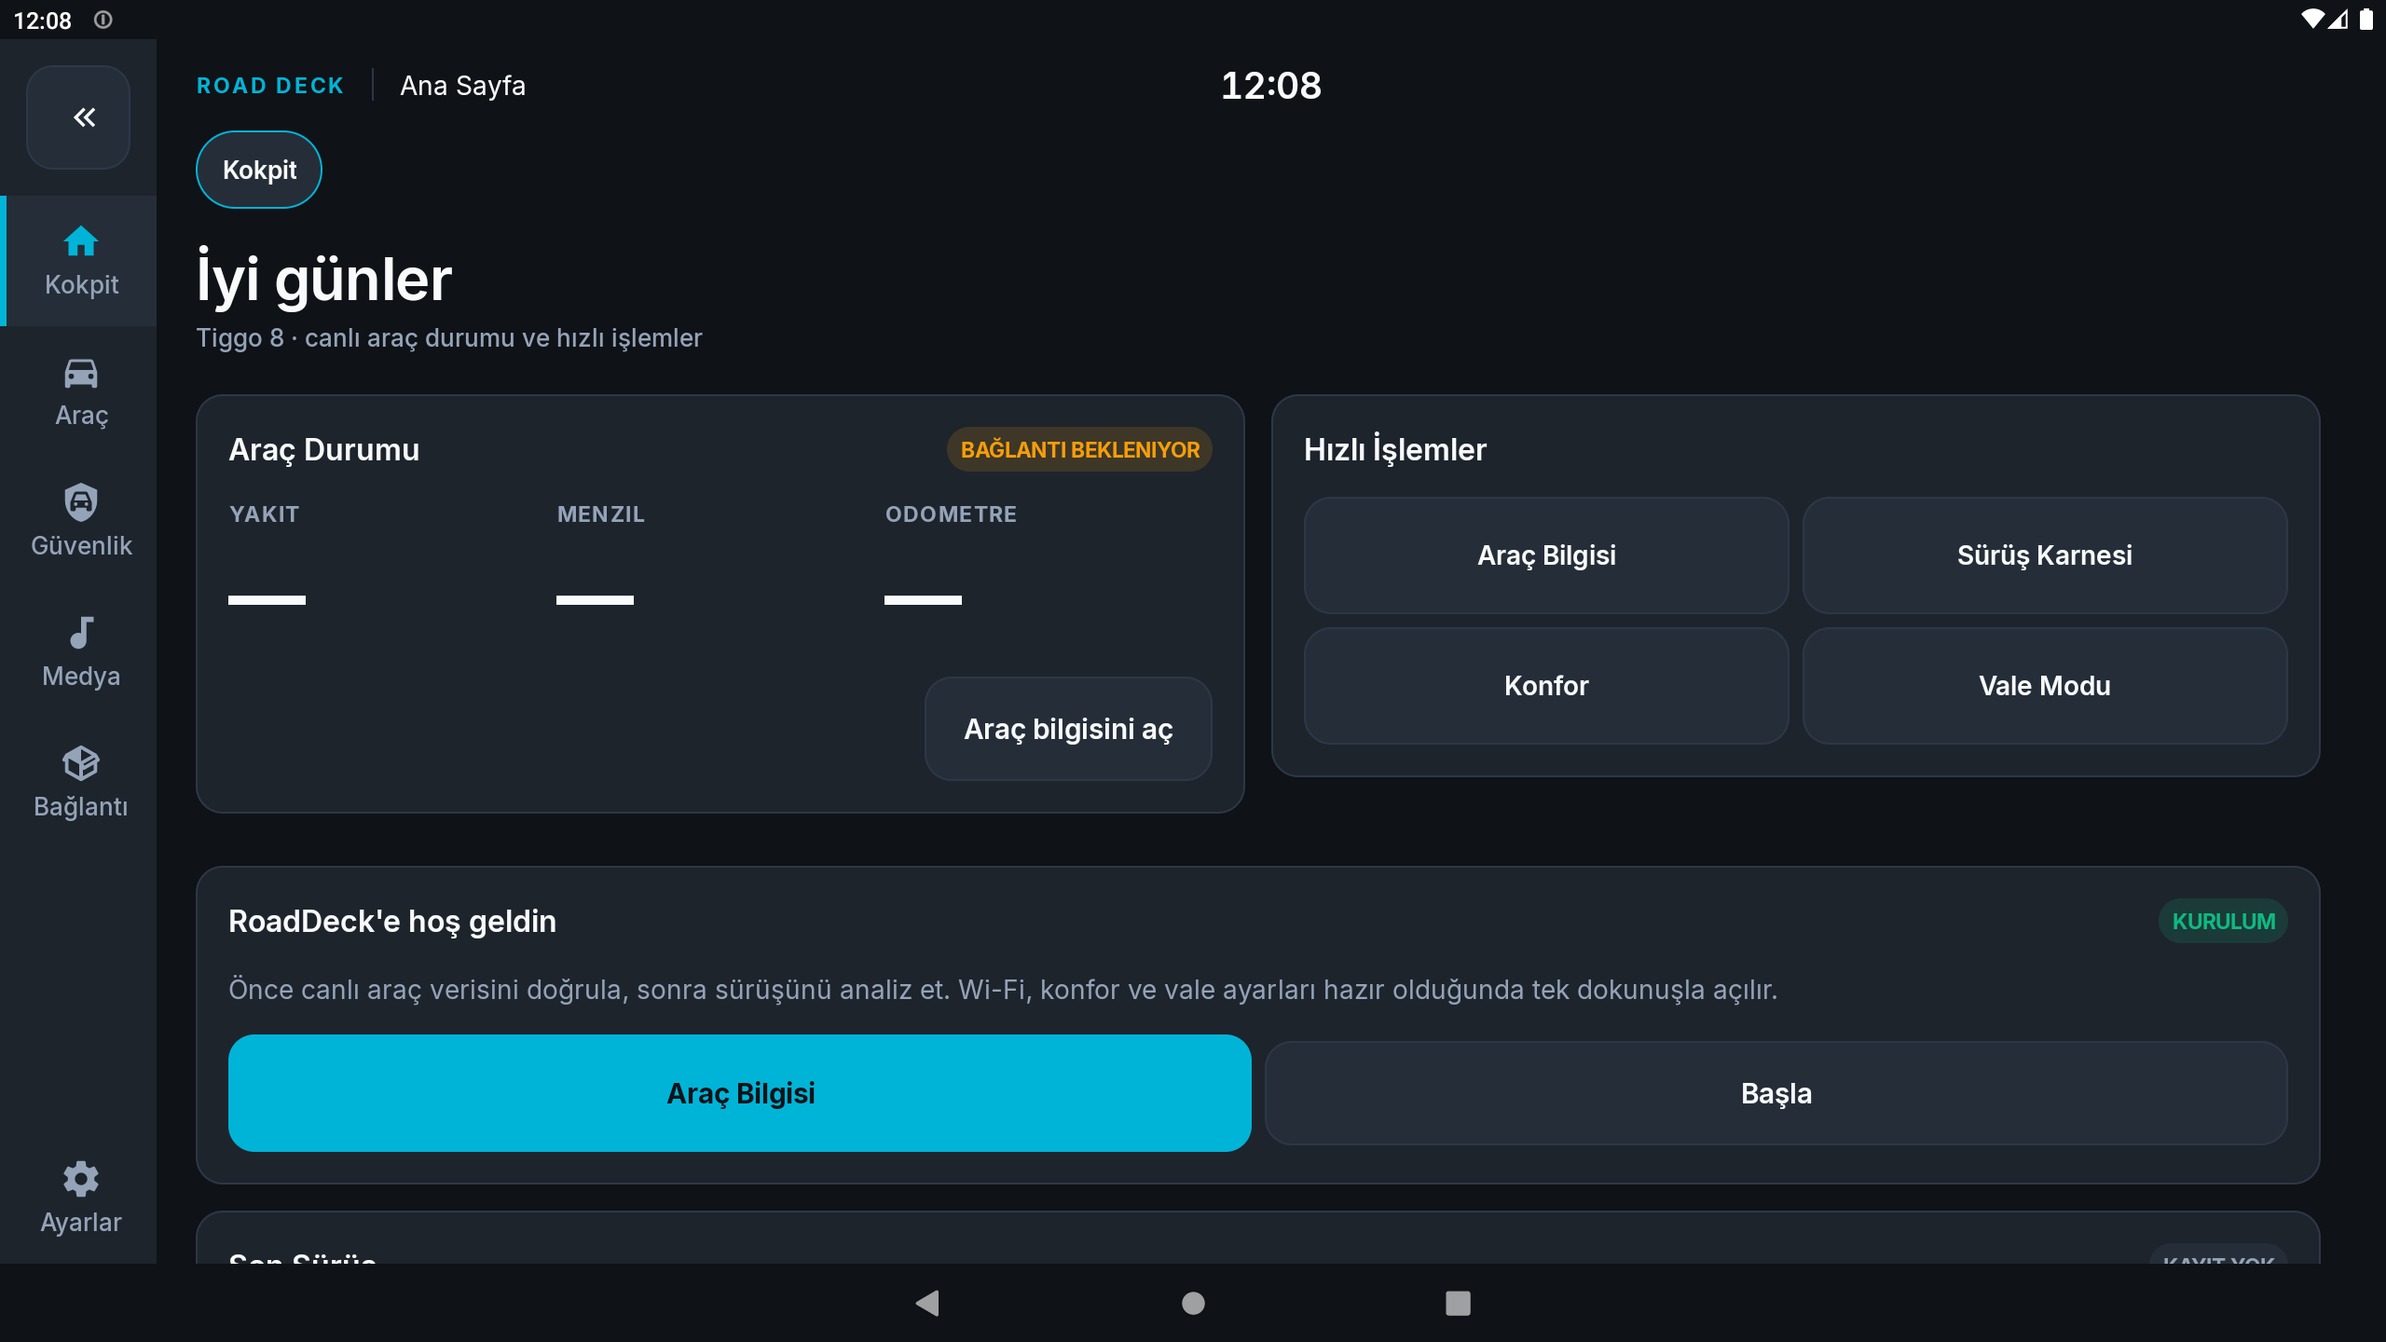
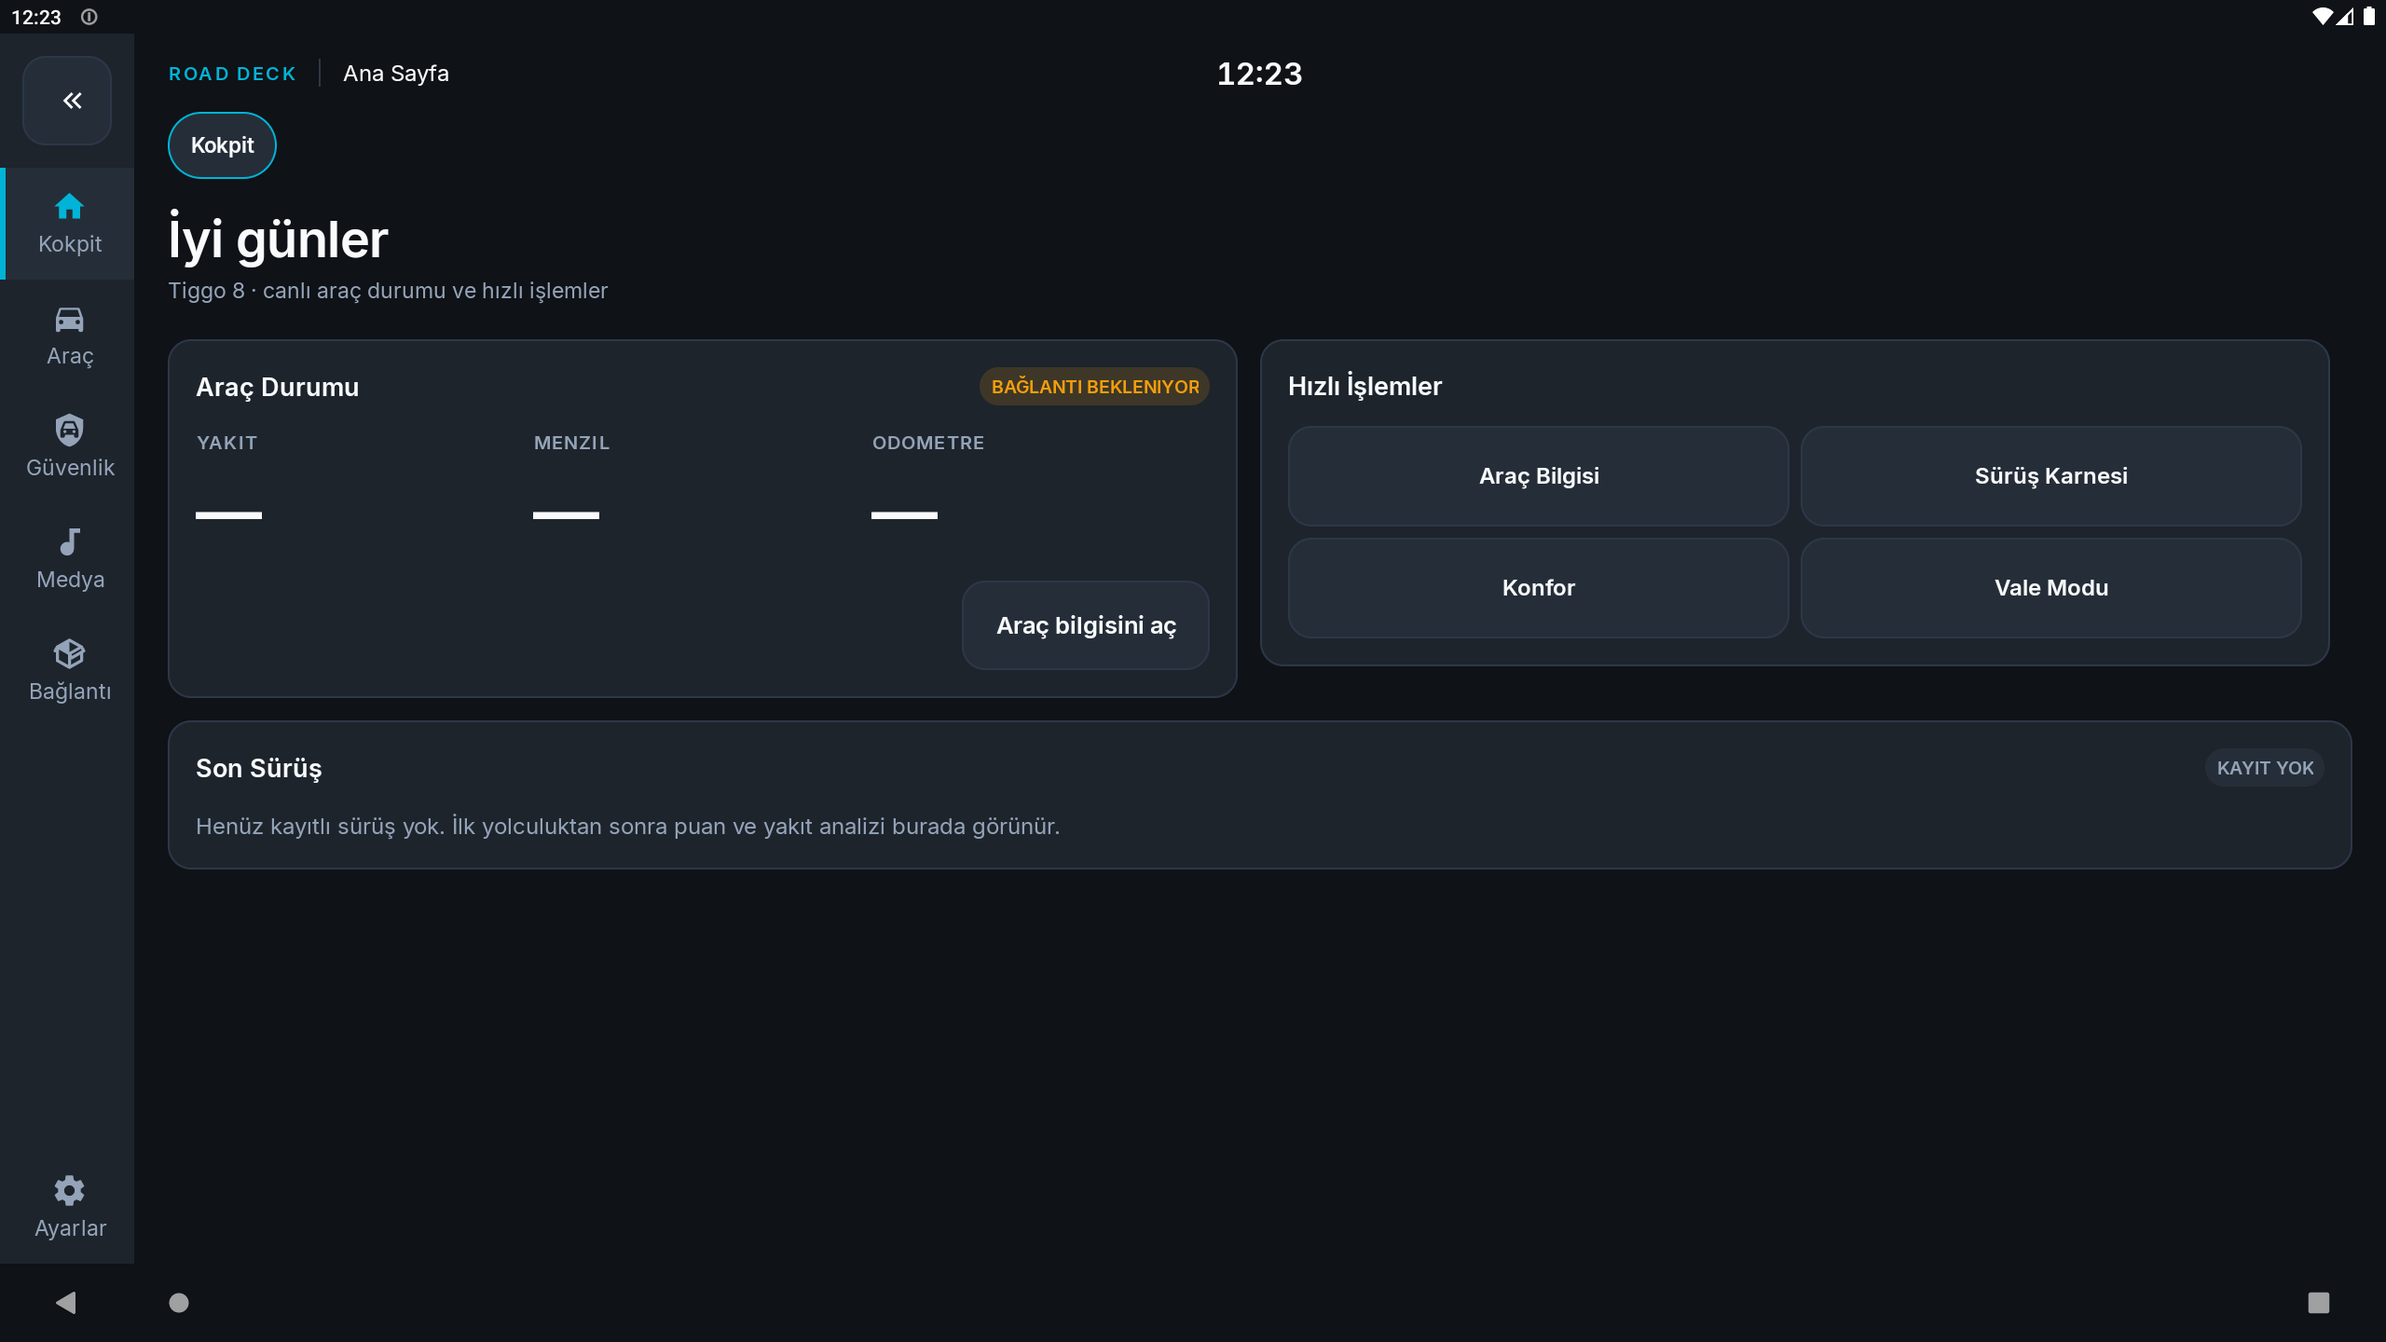
F4: DrivingHistory chip/kart/tipografi, 240dpi ekran goruntuleri, Home son surus karti
- DrivingHistory: CockpitChip filtre, LabelCaps bolum, Level1 kart, CockpitEmptyState
- SideRail domain seciminde status bar artik sekme basligini gosteriyor
- Home: Son Surus karti grid'e tam olarak olusturulup ekleniyor (dinamik re-add layout sorunu)
- Ekran goruntuleri 240dpi (hedef AVD) ile yenilendi

diff --git a/app/src/main/java/com/mapcontrol/ui/builder/HomeTabBuilder.java b/app/src/main/java/com/mapcontrol/ui/builder/HomeTabBuilder.java
@@ -63,7 +63,7 @@ public class HomeTabBuilder implements VehicleMetricsRepository.Listener {
     private MetricView odoValue;
     private StatusBadge statusBadge;
     private CockpitCard onboardingCard;
-    private LinearLayout lastDriveHost;
+    private View lastDriveCard;
     private volatile boolean tabVisible;
 
     public HomeTabBuilder(Context context, VehicleMetricsRepository repository, HomeCallback callback) {
@@ -81,7 +81,7 @@ public class HomeTabBuilder implements VehicleMetricsRepository.Listener {
 
     public void startListening() {
         tabVisible = true;
-        renderLastDrive();
+        // Last drive is built once with the tab; live trip updates are reflected on next open.
         repository.removeListener(this);
         repository.addListener(this);
         repository.refresh();
@@ -117,10 +117,9 @@ public class HomeTabBuilder implements VehicleMetricsRepository.Listener {
 
         grid.add(buildVehicleCard(), 4);
         grid.add(buildQuickActions(), 4);
-        grid.add(buildValetCard(), 8);
-        grid.add(buildOnboardingCard(), 8);
-        grid.add(buildLastDriveHost(), 8);
-        renderLastDrive();
+        grid.addFullWidth(buildLastDriveCard());
+        grid.addFullWidth(buildValetCard());
+        grid.addFullWidth(buildOnboardingCard());
     }
 
     private View buildHero() {
@@ -253,23 +252,9 @@ public class HomeTabBuilder implements VehicleMetricsRepository.Listener {
         return onboardingCard;
     }
 
-    private View buildLastDriveHost() {
-        lastDriveHost = new LinearLayout(context);
-        lastDriveHost.setOrientation(LinearLayout.VERTICAL);
-        return lastDriveHost;
-    }
-
-    private void renderLastDrive() {
-        if (lastDriveHost == null) {
-            return;
-        }
-        lastDriveHost.removeAllViews();
-        lastDriveHost.addView(buildLastDriveCard(), new LinearLayout.LayoutParams(
-                LinearLayout.LayoutParams.MATCH_PARENT, LinearLayout.LayoutParams.WRAP_CONTENT));
-    }
-
     private CockpitCard buildLastDriveCard() {
-        CockpitCard card = new CockpitCard(context, context.getString(R.string.ck_home_last_drive)).span(8);
+        CockpitCard card = new CockpitCard(context,
+                context.getString(R.string.ck_home_last_drive)).span(8);
         DrivingSessionRecorder recorder = DrivingSessionRecorder.get(context);
         DrivingTrip trip = recorder.isActive() ? recorder.getDisplayTrip() : recorder.getLastTrip();
         if (trip == null) {
@@ -279,51 +264,50 @@ public class HomeTabBuilder implements VehicleMetricsRepository.Listener {
             }
         }
         if (trip == null) {
-            card.status(StatusBadge.neutral(context, context.getString(R.string.ck_home_no_record)));
+            card.status(StatusBadge.neutral(context,
+                    context.getString(R.string.ck_home_no_record)));
             TextView empty = new TextView(context);
-            CockpitTokens.bodySm(empty);
+            CockpitTokens.bodyMd(empty);
+            empty.setTextColor(CockpitTokens.color(context, R.color.ck_text_medium));
             empty.setText(context.getString(R.string.ck_home_no_drive));
             card.addContent(empty);
             return card;
         }
 
-        card.status(StatusBadge.nominal(context, recorder.isActive() ? context.getString(R.string.ck_home_in_progress) : context.getString(R.string.ck_home_completed)));
+        card.status(StatusBadge.nominal(context, recorder.isActive()
+                ? context.getString(R.string.ck_home_in_progress)
+                : context.getString(R.string.ck_home_completed)));
+
         LinearLayout row = new LinearLayout(context);
         row.setOrientation(LinearLayout.HORIZONTAL);
         row.setGravity(Gravity.CENTER_VERTICAL);
-        MetricView score = new MetricView(context, context.getString(R.string.ck_home_score)).value(String.valueOf(trip.score));
-        score.setMinimumWidth(CockpitTokens.dp(context, 160));
-        row.addView(score);
 
-        LinearLayout info = new LinearLayout(context);
-        info.setOrientation(LinearLayout.VERTICAL);
-        LinearLayout.LayoutParams infoLp = new LinearLayout.LayoutParams(0,
-                LinearLayout.LayoutParams.WRAP_CONTENT, 1f);
-        infoLp.leftMargin = CockpitTokens.dim(context, R.dimen.ck_space_lg);
-        row.addView(info, infoLp);
+        TextView score = new TextView(context);
+        CockpitTokens.display(score);
+        score.setText(String.valueOf(trip.score));
+        score.setTextColor(CockpitTokens.color(context, R.color.ck_accent));
+        row.addView(score, new LinearLayout.LayoutParams(
+                CockpitTokens.dp(context, 150), LinearLayout.LayoutParams.WRAP_CONTENT));
 
-        TextView title = new TextView(context);
-        CockpitTokens.title(title);
-        title.setText(trip.title.isEmpty() ? context.getString(R.string.ck_home_drive) : trip.title);
-        info.addView(title);
-
+        TextView info = new TextView(context);
+        CockpitTokens.bodyMd(info);
         SimpleDateFormat fmt = new SimpleDateFormat("d MMM · HH:mm", new Locale("tr", "TR"));
-        TextView meta = new TextView(context);
-        CockpitTokens.bodySm(meta);
-        meta.setText(fmt.format(new Date(trip.startTimeMs))
-                + " · " + String.format(Locale.getDefault(), "%.1f km", trip.distanceKm));
-        info.addView(meta);
-
+        String meta = (trip.title.isEmpty() ? context.getString(R.string.ck_home_drive) : trip.title)
+                + "\n" + fmt.format(new Date(trip.startTimeMs))
+                + " · " + String.format(Locale.getDefault(), "%.1f km", trip.distanceKm);
         if (trip.consumptionL100 > 0) {
-            TextView cons = new TextView(context);
-            CockpitTokens.mono(cons);
-            cons.setText(String.format(Locale.getDefault(), "%.1f L/100 km", trip.consumptionL100));
-            info.addView(cons);
+            meta += "\n" + String.format(Locale.getDefault(), "%.1f L/100 km", trip.consumptionL100);
         }
+        info.setText(meta);
+        info.setTextColor(CockpitTokens.color(context, R.color.ck_text_medium));
+        row.addView(info, new LinearLayout.LayoutParams(0,
+                LinearLayout.LayoutParams.WRAP_CONTENT, 1f));
         card.addContent(row);
 
-        CockpitButton open = CockpitButton.secondary(context, context.getString(R.string.ck_home_view_all));
-        open.setOnClickListener(v -> callback.onNavigate(TAB_DRIVING_HISTORY, context.getString(R.string.ck_home_drive_report)));
+        CockpitButton open = CockpitButton.secondary(context,
+                context.getString(R.string.ck_home_view_all));
+        open.setOnClickListener(v -> callback.onNavigate(TAB_DRIVING_HISTORY,
+                context.getString(R.string.ck_home_drive_report)));
         card.addAction(open);
         return card;
     }

diff --git a/app/src/main/java/com/mapcontrol/ui/builder/DrivingHistoryTabBuilder.java b/app/src/main/java/com/mapcontrol/ui/builder/DrivingHistoryTabBuilder.java
@@ -21,6 +21,11 @@ import com.mapcontrol.driving.DrivingTripStore;
 import com.mapcontrol.driving.DrivingTrendBarsView;
 import com.mapcontrol.driving.DrivingTrends;
 import com.mapcontrol.ui.activity.DrivingAnalysisActivity;
+import com.mapcontrol.ui.cockpit.CockpitButton;
+import com.mapcontrol.ui.cockpit.CockpitChip;
+import com.mapcontrol.ui.cockpit.CockpitEmptyState;
+import com.mapcontrol.ui.cockpit.CockpitSurfaces;
+import com.mapcontrol.ui.cockpit.CockpitTokens;
 import com.mapcontrol.ui.theme.UiStyles;
 import com.mapcontrol.util.AppLocaleManager;
 
@@ -124,10 +129,8 @@ public class DrivingHistoryTabBuilder {
             String message = filterDays > 0
                     ? "Seçilen dönemde kayıtlı sürüş yok."
                     : context.getString(R.string.driving_history_empty);
-            TextView empty = text(message, 16,
-                    UiStyles.color(context, R.color.textSecondary), false);
-            empty.setGravity(Gravity.CENTER);
-            empty.setPadding(dp(24), dp(48), dp(24), dp(48));
+            CockpitEmptyState empty = new CockpitEmptyState(context,
+                    R.drawable.ic_mdi_road_variant, message);
             listContainer.addView(empty, new LinearLayout.LayoutParams(
                     LinearLayout.LayoutParams.MATCH_PARENT,
                     LinearLayout.LayoutParams.WRAP_CONTENT));
@@ -135,12 +138,7 @@ public class DrivingHistoryTabBuilder {
     }
 
     private void addFilterChip(String label, int days) {
-        TextView chip = text(label, 12,
-                UiStyles.color(context, R.color.textSecondary), true);
-        chip.setGravity(Gravity.CENTER);
-        chip.setPadding(dp(12), dp(7), dp(12), dp(7));
-        chip.setClickable(true);
-        chip.setFocusable(true);
+        CockpitChip chip = new CockpitChip(context, label);
         chip.setOnClickListener(v -> {
             filterDays = days;
             updateFilterChips();
@@ -148,7 +146,7 @@ public class DrivingHistoryTabBuilder {
         });
         LinearLayout.LayoutParams lp = new LinearLayout.LayoutParams(
                 LinearLayout.LayoutParams.WRAP_CONTENT,
-                LinearLayout.LayoutParams.WRAP_CONTENT);
+                CockpitTokens.dim(context, R.dimen.ck_chip_h));
         lp.setMarginEnd(dp(8));
         filterBar.addView(chip, lp);
         filterChips.add(chip);
@@ -160,15 +158,9 @@ public class DrivingHistoryTabBuilder {
         for (int i = 0; i < filterChips.size(); i++) {
             TextView chip = filterChips.get(i);
             boolean selected = filterDaysValues.get(i) == filterDays;
-            GradientDrawable bg = new GradientDrawable();
-            bg.setColor(UiStyles.color(context, selected
-                    ? R.color.oemAccent : R.color.surfaceCardElevated));
-            bg.setCornerRadius(dp(9));
-            bg.setStroke(Math.max(1, Math.round(dp(1))),
-                    UiStyles.color(context, R.color.outlineSubtle));
-            chip.setBackground(bg);
-            chip.setTextColor(UiStyles.color(context, selected
-                    ? R.color.textPrimary : R.color.textSecondary));
+            if (chip instanceof CockpitChip) {
+                ((CockpitChip) chip).setSelectedState(selected);
+            }
         }
     }
 
@@ -191,12 +183,7 @@ public class DrivingHistoryTabBuilder {
         LinearLayout card = new LinearLayout(context);
         card.setOrientation(LinearLayout.VERTICAL);
         card.setPadding(dp(16), dp(14), dp(16), dp(14));
-        GradientDrawable background = new GradientDrawable();
-        background.setColor(UiStyles.color(context, R.color.surfaceCard));
-        background.setCornerRadius(dp(16));
-        background.setStroke(Math.max(1, Math.round(dp(1))),
-                UiStyles.color(context, R.color.outlineSubtle));
-        card.setBackground(background);
+        CockpitSurfaces.level1(card);
         LinearLayout.LayoutParams cardLp = new LinearLayout.LayoutParams(
                 LinearLayout.LayoutParams.MATCH_PARENT,
                 LinearLayout.LayoutParams.WRAP_CONTENT);
@@ -421,9 +408,9 @@ public class DrivingHistoryTabBuilder {
     }
 
     private TextView sectionLabel(int labelResId) {
-        TextView label = text(labelResId, 11,
-                UiStyles.color(context, R.color.textHint), true);
-        label.setLetterSpacing(0.16f);
+        TextView label = text(labelResId, 13,
+                UiStyles.color(context, R.color.textSecondary), true);
+        CockpitTokens.labelCaps(label);
         label.setPadding(0, dp(14), 0, dp(6));
         return label;
     }
@@ -439,15 +426,8 @@ public class DrivingHistoryTabBuilder {
         header.addView(subtitle, new LinearLayout.LayoutParams(
                 0, LinearLayout.LayoutParams.WRAP_CONTENT, 1f));
 
-        Button refresh = new Button(context);
-        refresh.setText(R.string.driving_history_refresh);
-        refresh.setAllCaps(false);
-        refresh.setTextSize(13);
-        refresh.setTypeface(null, Typeface.BOLD);
-        refresh.setTextColor(UiStyles.color(context, R.color.textPrimary));
-        refresh.setPadding(dp(16), dp(8), dp(16), dp(8));
-        UiStyles.styleOemButton(refresh,
-                UiStyles.color(context, R.color.buttonSecondaryMuted));
+        CockpitButton refresh = CockpitButton.secondary(context,
+                context.getString(R.string.driving_history_refresh));
         refresh.setOnClickListener(v -> refresh());
         header.addView(refresh, new LinearLayout.LayoutParams(
                 LinearLayout.LayoutParams.WRAP_CONTENT,
@@ -469,12 +449,7 @@ public class DrivingHistoryTabBuilder {
         card.setPadding(dp(16), dp(12), dp(16), dp(12));
         card.setClickable(true);
         card.setFocusable(true);
-        GradientDrawable background = new GradientDrawable();
-        background.setColor(UiStyles.color(context, R.color.surfaceCard));
-        background.setCornerRadius(dp(16));
-        background.setStroke(Math.max(1, Math.round(dp(1))),
-                UiStyles.color(context, R.color.outlineSubtle));
-        card.setBackground(background);
+        CockpitSurfaces.level1(card);
 
         if (wide) {
             LinearLayout.LayoutParams scoreLp = new LinearLayout.LayoutParams(

diff --git a/app/src/main/java/com/mapcontrol/ui/activity/MainActivity.java b/app/src/main/java/com/mapcontrol/ui/activity/MainActivity.java
@@ -462,7 +462,7 @@ public class MainActivity extends AppCompatActivity {
                         crossfadeContent(() -> {
                             switchTab(tabIndex);
                             if (topBarTitle != null) {
-                                topBarTitle.setText(title);
+                                topBarTitle.setText(CockpitNavModel.title(MainActivity.this, tabIndex));
                             }
                             if (tabIndex == TAB_DRIVING_HISTORY && drivingHistoryTabBuilder != null) {
                                 drivingHistoryTabBuilder.onTabVisible();

diff --git a/app/src/main/java/com/mapcontrol/ui/cockpit/CockpitGrid.java b/app/src/main/java/com/mapcontrol/ui/cockpit/CockpitGrid.java
@@ -36,6 +36,14 @@ public class CockpitGrid extends LinearLayout {
         used += span;
     }
 
+    /** Full-width row without weight measurement (nested layouts with text). */
+    public void addFullWidth(View view) {
+        newRow();
+        currentRow.addView(view, new LayoutParams(LayoutParams.MATCH_PARENT,
+                LayoutParams.WRAP_CONTENT));
+        used = COLUMNS;
+    }
+
     public void addRow(View view) {
         newRow();
         currentRow.addView(view, new LinearLayout.LayoutParams(0,
